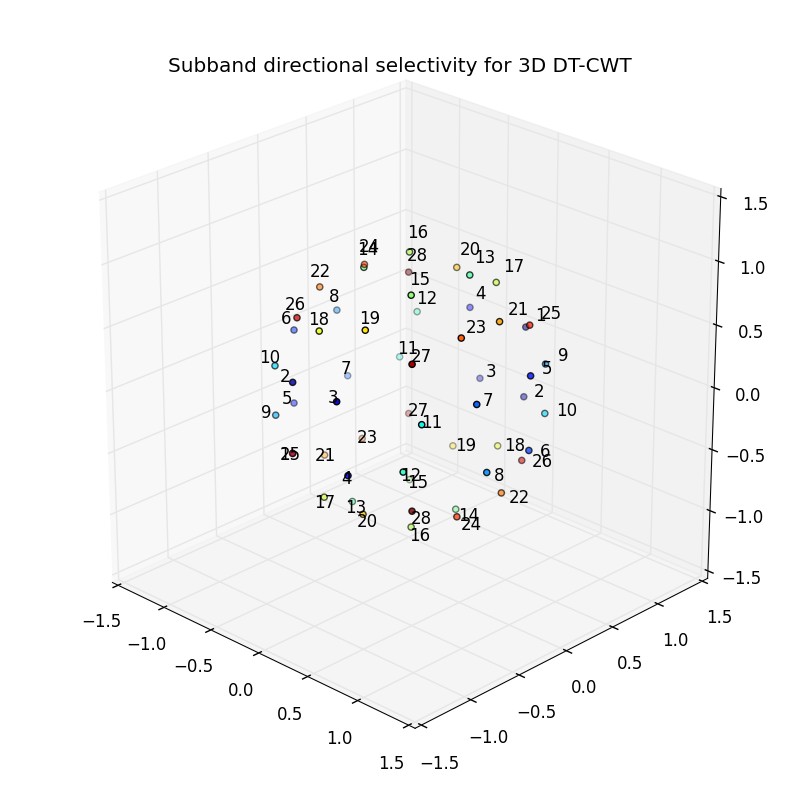
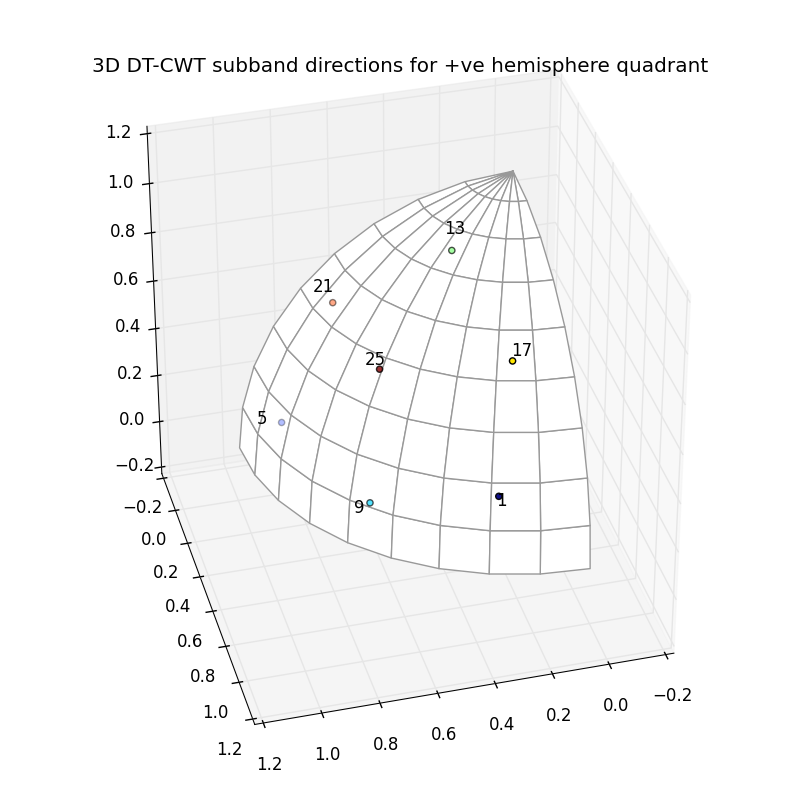
update directional example to be easier to interpret

diff --git a/examples/3d_dtcwt_directionality.py b/examples/3d_dtcwt_directionality.py
@@ -15,6 +15,7 @@ directions in which the 3D DT-CWT transform is selective.
 from matplotlib.pyplot import *
 import numpy as np
 from mpl_toolkits.mplot3d import Axes3D
+from mpl_toolkits.mplot3d.art3d import Poly3DCollection
 from dtcwt import dtwavexfm3, dtwaveifm3, biort, qshift
 
 # Specify details about sphere and grid size
@@ -40,6 +41,31 @@ figure(figsize=(8,8))
 
 ax = gcf().add_subplot(1,1,1, projection='3d')
 ax.set_aspect('equal')
+ax.view_init(35, 75)
+
+# Plot unit sphere +ve octant
+thetas = np.linspace(0, np.pi/2, 10)
+phis = np.linspace(0, np.pi/2, 10)
+
+def sphere_to_xyz(r, theta, phi):
+    st, ct = np.sin(theta), np.cos(theta)
+    sp, cp = np.sin(phi), np.cos(phi)
+    return r * np.asarray((st*cp, st*sp, ct))
+
+tris = []
+rad = 0.99 # so that points plotted latter are not z-clipped
+for t1, t2 in zip(thetas[:-1], thetas[1:]):
+    for p1, p2 in zip(phis[:-1], phis[1:]):
+        tris.append([
+            sphere_to_xyz(rad, t1, p1),
+            sphere_to_xyz(rad, t1, p2),
+            sphere_to_xyz(rad, t2, p2),
+            sphere_to_xyz(rad, t2, p1),
+        ])
+
+sphere = Poly3DCollection(tris, facecolor='w', edgecolor=(0.6,0.6,0.6))
+ax.add_collection3d(sphere)
+
 locs = []
 scale = 1.1
 for idx in xrange(Yh[-1].shape[3]):
@@ -47,20 +73,25 @@ for idx in xrange(Yh[-1].shape[3]):
     C = np.abs(Z)
     max_loc = np.asarray(np.unravel_index(np.argmax(C), C.shape)) - np.asarray(C.shape)*0.5
     max_loc /= np.sqrt(np.sum(max_loc * max_loc))
-    locs.append(max_loc)
 
-    ax.text(max_loc[0] * scale, max_loc[1] * scale, max_loc[2] * scale, str(idx+1))
-    ax.text(-max_loc[0] * scale, -max_loc[1] * scale, -max_loc[2] * scale, str(idx+1))
-                        
+    # Only record directions in the +ve octant (or those from the -ve quadrant
+    # which can be flipped).
+    if np.all(np.sign(max_loc) == 1):
+        locs.append(max_loc)
+        ax.text(max_loc[0] * scale, max_loc[1] * scale, max_loc[2] * scale, str(idx+1))
+    elif np.all(np.sign(max_loc) == -1):
+        locs.append(-max_loc)
+        ax.text(-max_loc[0] * scale, -max_loc[1] * scale, -max_loc[2] * scale, str(idx+1))
+ 
+# Plot all directions as a scatter plot
 locs = np.asarray(locs)
 ax.scatter(locs[:,0], locs[:,1], locs[:,2], c=np.arange(locs.shape[0]))
-ax.scatter(-locs[:,0], -locs[:,1], -locs[:,2], c=np.arange(locs.shape[0]))
 
-w = scale * 1.2
-ax.auto_scale_xyz([-w, w], [-w, w], [-w, w])
+w = 1.1
+ax.auto_scale_xyz([0, w], [0, w], [0, w])
 
 legend()
-title('Subband directional selectivity for 3D DT-CWT')
+title('3D DT-CWT subband directions for +ve hemisphere quadrant')
 tight_layout()
 
 show()

diff --git a/docs/examples.rst b/docs/examples.rst
@@ -15,6 +15,14 @@ in an interactive figure using matplotlib. A screenshot is reproduced below:
 
 .. image:: 3d_dtcwt_directionality.png
 
+There are some points to note about this diagram. Each subband is labeled sich
+that '1' refers to the first subband, '5' the fifth and so forth. On this
+diagram the subbands are all four apart reflecting the fact that, for example,
+subbands 2, 3 and 4 are positioned in the other four quadrants of the upper
+hemisphere reflecting the position of subband 1. There are seven visible
+subband directions in the +ve quadrant of the hemisphere and hence there are 28
+directions in total over all four quadrants.
+
 The source for the script is shown below:
 
 .. literalinclude:: ../examples/3d_dtcwt_directionality.py
